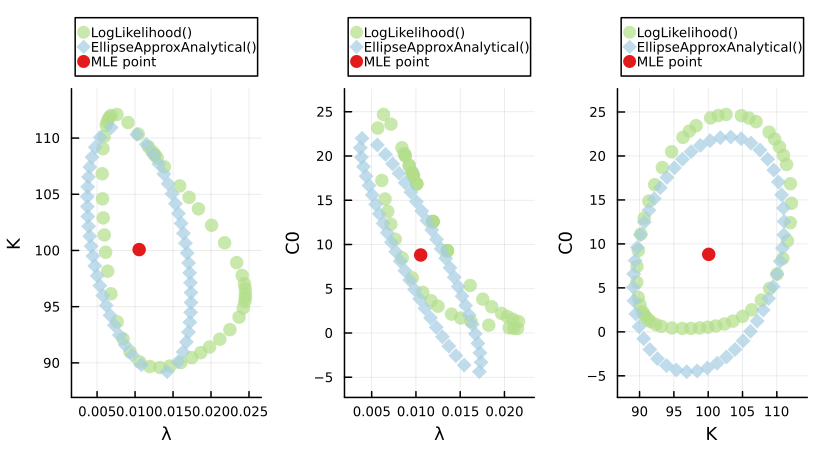
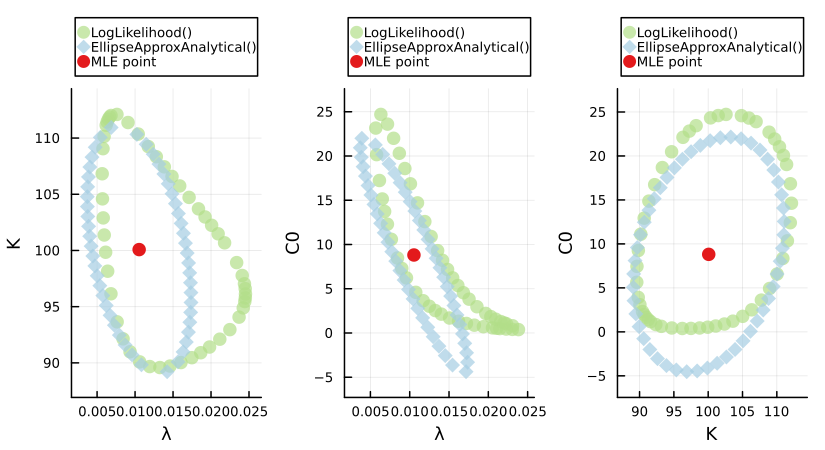
Update logistic and binomial examples

diff --git a/docs/src/examples/binomial_normal_approximation.md b/docs/src/examples/binomial_normal_approximation.md
@@ -22,16 +22,14 @@ using PlaceholderLikelihood
 
 ## Model and Likelihood Function Definition
 
-`data` is a named tuple...
-
 ```julia
-distrib_θ(θ) = Normal(θ[1] * θ[2], sqrt(θ[1] * θ[2] * (1 - θ[2])))
+distrib(θ) = Normal(θ[1] * θ[2], sqrt(θ[1] * θ[2] * (1 - θ[2])))
 
-function loglhood_θ(θ, data)
-    return sum(logpdf.(distrib_θ(θ), data.samples))
+function loglhood(θ, data)
+    return sum(logpdf.(distrib(θ), data.samples))
 end
 
-function predictfunction_θ(θ, data, t=["n*p"]); [prod(θ)] end
+function predictfunction(θ, data, t=["n*p"]); [prod(θ)] end
 ```
 
 ## Initial Data and Parameter Definition
@@ -63,7 +61,8 @@ model = initialise_LikelihoodModel(loglhood, data, θnames, θG, lb, ub, par_mag
 This example is particularly interesting because it contains a very concave bivariate boundary - the [`IterativeBoundaryMethod`](@ref) thus becomes very appropriate to use. However, evaluting this many points may be prohibitive on higher dimensional models.
 
 ```julia
-bivariate_confidenceprofiles!(model, 200, method=IterativeBoundaryMethod(3,1,1, 0.15, 1.0, use_ellipse=true))
+bivariate_confidenceprofiles!(model, 200, 
+    method=IterativeBoundaryMethod(20,20,20, 0.5, 0.1, use_ellipse=true))
 ```
 
 ## Visualising the Progress of the IterativeBoundaryMethod
@@ -73,10 +72,13 @@ We can visualise the progress of the [`IterativeBoundaryMethod`](@ref) using [`p
 ```julia
 using Plots; gr()
 
-format = (size=(600, 400), dpi=300, title="",
+format = (size=(450, 300), dpi=150, title="",
     legend_position=:topright, palette=:Paired)
-plot_bivariate_profiles_iterativeboundary_gif(model, 0.2, 0.2; markeralpha=0.5, color=2, save_as_separate_plots=false, format...)
+plot_bivariate_profiles_iterativeboundary_gif(model, 0.2, 0.2; 
+    markeralpha=0.5, color=2, save_as_separate_plots=false, save_folder=joinpath("docs", "src", "assets", "figures", "binomial"), format...)
 ```
+
+![](../assets/figures/binomial/iterative_boundary_n_p.gif)
 
 ## Coordinate Transformation
 
@@ -88,7 +90,7 @@ Here we define the new log-likelihood and prediction functions which define the 
 
 ```julia
 function loglhood_Θ(Θ, data)
-    return loglhood_Θ(exp.(Θ), data)
+    return loglhood(exp.(Θ), data)
 end
 
 function predictfunctions_Θ(Θ, data, t=["n*p"]); [prod(exp.(Θ))] end
@@ -121,10 +123,12 @@ model = initialise_LikelihoodModel(loglhood_Θ, data, Θnames, ΘG, lb_Θ, ub_Θ
 Re-evaluating the bivariate boundary of the log-likelihood function after the transformation reveals a much more convex shape.
 
 ```julia
-bivariate_confidenceprofiles!(model, 40, method=RadialMLEMethod())
+bivariate_confidenceprofiles!(model, 40, method=RadialMLEMethod(0.15, 1.))
 
 using Plots; gr()
 
-plots = plot_bivariate_profiles(model, 0.2, 0.2, include_internal_points=true, markeralpha=0.9)
+plots = plot_bivariate_profiles(model, 0.2, 0.2; include_internal_points=true, markeralpha=0.9, format...)
 display(plots[1])
 ```
+
+![](../assets/figures/binomial/binomial_bivariate_plot.png)

diff --git a/docs/src/examples/logistic.md b/docs/src/examples/logistic.md
@@ -30,8 +30,6 @@ using Combinatorics
 
 ## Model and Likelihood Function Definition
 
-`data` is a named tuple...
-
 ```julia
 @everywhere function solvedmodel(t, θ)
     return (θ[2]*θ[3]) ./ ((θ[2]-θ[3]) .* (exp.(-θ[1] .* t)) .+ θ[3])
